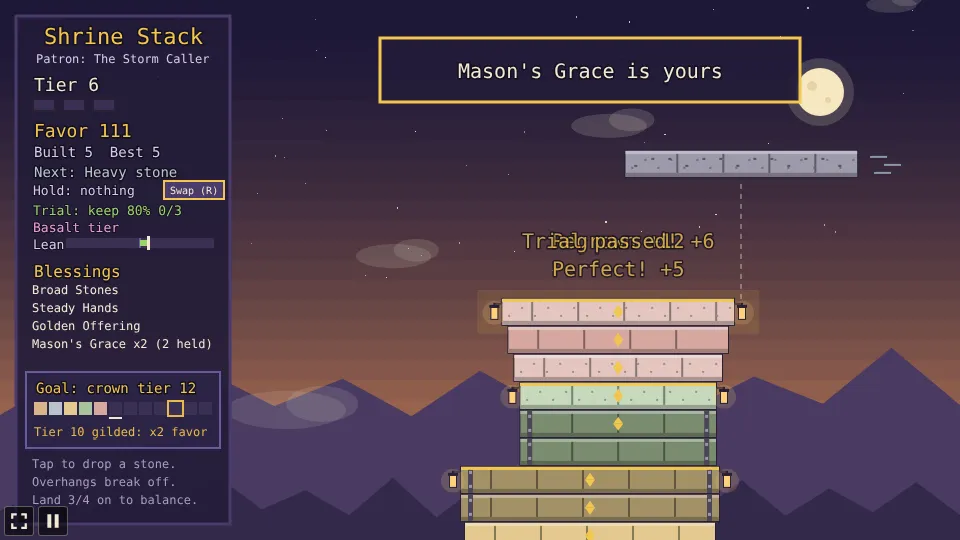
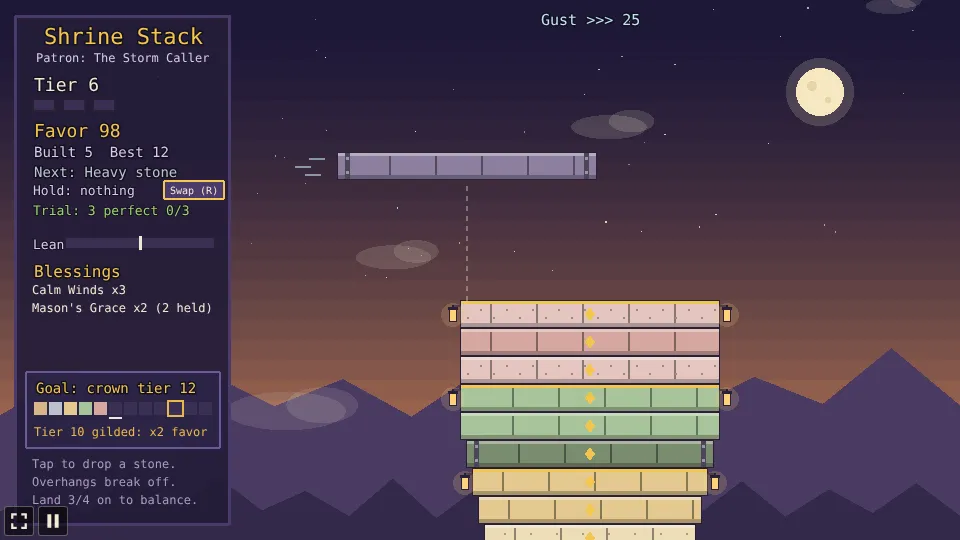
Shrine Stack: fix the topple favor farm and three small bugs
- A toppled tier takes back the favor its stones earned.
- A balanced 12th tier keeps its blessing offer for the Keep building break.
- The gust readout shows under the Storm Caller too, not only in the endless sky.
- A reroll unticks the curse box, since the new curse is a different one.

Created with Opus 5.5 (medium)

diff --git a/games/shrine-stack/src/game/state.ts b/games/shrine-stack/src/game/state.ts
@@ -178,7 +178,7 @@ export type GameEvent =
   | { type: 'trial'; tier: number; passed: boolean; favor: number }
   | { type: 'rerolled' }
   | { type: 'bought'; item: ShopId }
-  | { type: 'toppled'; count: number; lean: number }
+  | { type: 'toppled'; count: number; lean: number; favor: number }
   | { type: 'regrown'; px: number }
   | { type: 'swapped'; kind: StoneKind }
   | { type: 'patron'; patron: PatronId };
@@ -195,6 +195,8 @@ export interface GameState {
   tiersBuilt: number;
   balancedTiers: number;
   favor: number;
+  /** The favor the stones of the tier being built have earned so far, taken back if it topples. */
+  tierFavor: number;
   /** Blessings kept, in the order chosen, and the ones on offer while choosing. */
   blessings: BlessingId[];
   offer: BlessingId[];
@@ -257,6 +259,7 @@ export function newGame(best = 0): GameState {
     tiersBuilt: 0,
     balancedTiers: 0,
     favor: 0,
+    tierFavor: 0,
     blessings: [],
     offer: [],
     speed: speedFor(1, 0),
@@ -335,11 +338,13 @@ function spawn(s: GameState) {
   s.wind = gustFor(s);
 }
 
-/** The gust on a new stone: in the endless sky, or from `STORM_FROM_TIER` under the Storm Caller. */
+/** Whether gusts can blow on the tier being built: in the endless sky, or from `STORM_FROM_TIER` under the Storm Caller. */
+export const gusty = (s: GameState) => s.endless || (s.patron === 'storm' && s.tier >= STORM_FROM_TIER);
+
+/** The gust on a new stone, when the tier is `gusty`. */
 function gustFor(s: GameState) {
-  if (s.endless) return gust(s.tier, GOAL_TIER);
-  if (s.patron === 'storm' && s.tier >= STORM_FROM_TIER) return gust(s.tier, STORM_FROM_TIER - 1);
-  return 0;
+  if (!gusty(s)) return 0;
+  return s.endless ? gust(s.tier, GOAL_TIER) : gust(s.tier, STORM_FROM_TIER - 1);
 }
 
 /** The kind of the stone that will be the temple's `n`th from the bottom (from 0): ordinary on the first tiers. */
@@ -477,6 +482,7 @@ function land(s: GameState) {
   s.stones.push({ x, w: kept, tier: s.tier, perfect, kind: m.kind, material: m.material });
   const favor = stoneFavor(s, perfect, m.kind);
   s.favor += favor;
+  s.tierFavor += favor;
   if (share < BALANCE) s.wobbly = true;
   s.inTier++;
   s.chain = perfect ? s.chain + 1 : 0;
@@ -522,6 +528,7 @@ function land(s: GameState) {
     s.best = Math.max(s.best, s.tiersBuilt);
     s.tier++;
     s.inTier = 0;
+    s.tierFavor = 0;
     s.wobbly = false;
     s.curse = null;
     s.swapped = false;
@@ -530,13 +537,16 @@ function land(s: GameState) {
     s.lean = Math.trunc(s.lean * LEAN_SETTLE);
     s.speed = speedFor(s.tier, s.blessings.filter((b) => b === 'calm').length, s.patron);
     s.trial = s.tier >= TRIALS_FROM_TIER ? { id: TRIALS[Math.floor(Math.random() * TRIALS.length)], done: 0, failed: false } : null;
+    if (balanced) {
+      s.offer = pickOffer(s);
+      s.curseOffer = pickCurse();
+    }
     if (s.tiersBuilt === GOAL_TIER && !s.endless) {
+      // A balanced crowning tier keeps its offer for the break "Keep building" opens.
       s.phase = 'crowned';
       return;
     }
     if (balanced) {
-      s.offer = pickOffer(s);
-      s.curseOffer = pickCurse();
       s.phase = 'blessing';
     } else if (s.favor >= CHEAPEST || s.tier >= MATERIAL_FROM_TIER) {
       // A wobbly tier earns no blessing, but the break still opens when favor can buy something or
@@ -549,12 +559,15 @@ function land(s: GameState) {
   spawn(s);
 }
 
-/** The tier being built falls off the temple: its stones go, the lean is gone with them and the tier starts over. */
+/** The tier being built falls off the temple: its stones go, and their favor, the lean is gone with them and the tier starts over. */
 function topple(s: GameState) {
   const count = s.inTier;
   s.stones.splice(s.stones.length - count, count);
-  s.events.push({ type: 'toppled', count, lean: s.lean });
+  const favor = Math.min(s.tierFavor, s.favor);
+  s.favor -= favor;
+  s.events.push({ type: 'toppled', count, lean: s.lean, favor });
   s.inTier = 0;
+  s.tierFavor = 0;
   s.wobbly = false;
   s.lean = 0;
   s.chain = 0;
@@ -598,6 +611,8 @@ export function reroll(s: GameState) {
   s.favor -= REROLL_COST;
   s.offer = pickOffer(s);
   s.curseOffer = pickCurse();
+  // The new curse is a different one, so it starts untaken.
+  s.cursed = false;
   s.events.push({ type: 'rerolled' });
   return true;
 }
@@ -654,12 +669,13 @@ function endBreak(s: GameState) {
   s.phase = 'swinging';
 }
 
-/** After the crown: keep building into the endless sky, where gusts push the falling stone, after a break to pick the first sky tier's material. */
+/**
+ * After the crown: keep building into the endless sky, where gusts push the falling stone, after a break
+ * to pick the first sky tier's material and, when the crowning tier was balanced, its blessing.
+ */
 export function keepBuilding(s: GameState) {
   if (s.phase !== 'crowned') return false;
   s.endless = true;
-  s.offer = [];
-  s.curseOffer = null;
   s.phase = 'blessing';
   spawn(s);
   return true;

diff --git a/games/shrine-stack/src/scenes/GameScene.ts b/games/shrine-stack/src/scenes/GameScene.ts
@@ -28,6 +28,7 @@ import {
   CURSE_MULT,
   curseNow,
   drop,
+  gusty,
   keepBuilding,
   GILDED_MULT,
   GILDED_TIER,
@@ -564,7 +565,8 @@ export class GameScene extends Phaser.Scene {
       const side = e.lean > 0 ? 1 : -1;
       for (const g of this.stoneViews.splice(this.stoneViews.length - e.count, e.count)) this.tumble(g, side);
       this.cameras.main.shake(250, 0.008);
-      this.announce(['The tier topples!', `The temple leaned ${Math.abs(Math.round(e.lean))} too far ${side > 0 ? 'right' : 'left'}`]);
+      const dir = side > 0 ? 'right' : 'left';
+      this.announce(['The tier topples!', e.favor ? `Leaned too far ${dir}: -${e.favor} favor` : `The temple leaned ${Math.abs(Math.round(e.lean))} too far ${dir}`]);
     } else if (e.type === 'regrown') {
       this.redrawTop();
       this.popup(s.stones.at(-1)!.x, this.worldY(stackHeight(s)) - 34, `Regrown +${e.px}`, true);
@@ -732,7 +734,7 @@ export class GameScene extends Phaser.Scene {
     this.reserveButton = swappable ? { ...RESERVE_BUTTON } : null;
     this.drawLean();
     const playing = s.phase === 'swinging' || s.phase === 'falling';
-    this.windText.setText(s.endless && playing ? (s.wind ? `Gust ${s.wind > 0 ? '>>>' : '<<<'} ${Math.abs(s.wind)}` : 'Calm air') : '');
+    this.windText.setText(gusty(s) && playing ? (s.wind ? `Gust ${s.wind > 0 ? '>>>' : '<<<'} ${Math.abs(s.wind)}` : 'Calm air') : '');
     const counts = BLESSINGS.filter((b) => s.blessings.includes(b)).map((b) => {
       const n = s.blessings.filter((x) => x === b).length;
       const held = b === 'grace' && s.grace ? ` (${s.grace} held)` : '';

diff --git a/games/shrine-stack/src/howToPlay.ts b/games/shrine-stack/src/howToPlay.ts
@@ -37,7 +37,7 @@ export const howToPlay: HowToPlay = {
     'A drop within 5 pixels of the stone below is perfect: it keeps its full width and earns 2 extra favor.',
     'A tier is balanced when every stone in it kept at least three quarters of its width.',
     'Heavy stones swing slower but crack more off; light stones swing faster and earn 1 more favor.',
-    'From tier 3 off-centre drops make the temple lean, and past 60 pixels the tier topples and starts over.',
+    'From tier 3 off-centre drops make the temple lean, and past 60 pixels the tier topples, losing its favor, and starts over.',
     'From tier 3, three perfect drops in a row start growing the stone back.',
     'Ticking a curse before you choose a blessing doubles everything the next tier earns.',
     'Tier 10 is gilded for double favor, and after the crown you can keep building into a windy sky.',

diff --git a/games/shrine-stack/AGENTS.md b/games/shrine-stack/AGENTS.md
@@ -40,7 +40,8 @@ Implemented today:
   Many-Handed, never Mason's Grace under the Gilded Hand), repeatable.
 - Swing speed rises 5% per tier (`TIER_SPEEDUP`); `swingSpeed` adds the stone's kind, Basalt, a slow
   drop and Haste on top of `speed`, which stays the tier's speed (with the patron's pace in it).
-- Reroll: `reroll` spends `REROLL_COST` (5) favor for a new offer (and a new curse) while choosing.
+- Reroll: `reroll` spends `REROLL_COST` (5) favor for a new offer (and a new curse, untaken:
+  `cursed` resets) while choosing.
 - Favor shop (SS1): `buy` spends favor during a break on `SHOP` items (`src/game/catalog.ts`),
   each once per break (`bought`): `slow` (the stone in hand swings at `SLOW_MULT`, cleared when it
   lands), `wider` (top stone grows `WIDER_PX`, up to `PLINTH_W`) and `grace` (+1 grace). `shopFor`
@@ -57,8 +58,9 @@ Implemented today:
   `WIND_PER_TIER` per tier past 13, up to `WIND_MAX`) that pushes it sideways while it falls.
 - The temple leans (SS6): from `LEAN_FROM_TIER` (3) `land` adds each placed stone's offset from the
   one below to `lean` (+ right; a perfect drop adds 0). Past `LEAN_MAX` (60) `topple` removes the
-  tier's stones placed so far (`inTier` of them), pushes a `toppled` event, resets `inTier`,
-  `wobbly`, `lean`, `chain` and the trial's progress, and the tier starts over (favor stays). A
+  tier's stones placed so far (`inTier` of them), takes back the favor they earned (`tierFavor`,
+  which a tier end resets), pushes a `toppled` event (with that favor), resets `inTier`, `wobbly`,
+  `lean`, `chain` and the trial's progress, and the tier starts over. A
   finished tier keeps `LEAN_SETTLE` (half) of its lean, truncated.
 - Perfect chains (SS7): `chain` counts perfect drops in a row (a cut or a miss resets it; it carries
   across tiers). From `CHAIN_FROM_TIER` (3) the `CHAIN_LEN`th (3rd) perfect drop and each one after
@@ -80,7 +82,7 @@ Implemented today:
   and `shopFor`; the Many-Handed (`hands`) offers `HANDS_OFFER` (4) blessings (`offerSize`) and
   swings at `HANDS_SPEED`; the Patient Mason (`patient`) swings at `PATIENT_SPEED` and earns no
   `PERFECT_FAVOR`; the Storm Caller (`storm`) adds `STORM_PERFECT` to `perfectPx` and gets gusts
-  from `STORM_FROM_TIER` (`gustFor`). `speedFor` takes the patron (`patronSpeed`).
+  from `STORM_FROM_TIER` (`gusty`, `gustFor`); the gust readout shows whenever `gusty` is true. `speedFor` takes the patron (`patronSpeed`).
 - Curses (SS5): a balanced tier's break offers `curseOffer` (`haste`, `brittle`, `dim`);
   `toggleCurse` sets `cursed`, and `chooseBlessing` then puts `curse` on the tier being started.
   `curseNow` says if it is in force; `favorMult` doubles (`CURSE_MULT`) every favor of that tier.
@@ -88,7 +90,9 @@ Implemented today:
   Dimness hides the drop guide (scene only).
 - Gilded tier: stones placed on tier `GILDED_TIER` (10), and its balance bonus, earn
   `GILDED_MULT` (2) times the favor (`gild`, `stoneFavor`).
-- Goal: finishing tier `GOAL_TIER` (12) sets phase `crowned`, the win; no blessing is offered then.
+- Goal: finishing tier `GOAL_TIER` (12) sets phase `crowned`, the win. A balanced crowning tier
+  still rolls its `offer` and `curseOffer`, and `keepBuilding` opens the break with them (the
+  material row and shop too); a wobbly one opens it with an empty offer.
   In the endless sky the run ends only on a miss; `best` keeps counting tiers.
 - The game ends on a miss (a stone keeping less than `MIN_W`) unless Mason's Grace catches it.
 
@@ -101,7 +105,7 @@ Missing or rough:
 - `docs/screenshots/game-over.webp`, `gilded.webp`, `crowned.webp`, `wobbly-break.webp`,
   `shop-bought.webp`, `curse-taken.webp`, `stone-kinds.webp`, `endless-gust.webp`, `four-blessings.webp`,
   `material-pick.webp`, `reserve.webp`, `lean-meter.webp`, `toppled.webp`, `regrown.webp`,
-  `storm-gust.webp` and `cover.png` (a copy of `gilded.webp`) are not produced by the test; refresh
+  `storm-gust.webp`, `crowned-blessing.webp` and `cover.png` (a copy of `gilded.webp`) are not produced by the test; refresh
   them by hand (play several tiers in the dev build, or drive it with a Playwright script that taps
   like the test does) if the look changes.
 
@@ -130,7 +134,7 @@ File map (`src/`):
   `stackHeight`, `topOf`, `curseNow`, `swingSpeed`, `perfectWindow`, `canSwap`, `swapReserve`,
   `tick`, `drop`, `canPickMaterial`, `chooseMaterial`, `chooseBlessing`, `canReroll`, `reroll`,
   `canBuy`, `buy`, `toggleCurse`, `buildOn`, `keepBuilding`, `gild`, `materialMult`, `favorMult`,
-  `stoneFavor`; `pickPatrons`, `spawn`, `gustFor`, `kindFor`, `gust`, `land`, `topple`,
+  `stoneFavor`, `gusty`; `pickPatrons`, `spawn`, `gustFor`, `kindFor`, `gust`, `land`, `topple`,
   `pickOffer`, `pickCurse`, `widenTop` and `endBreak` are private). No Phaser; `speedFor` reads
   `byDifficulty` from `shared/settings.ts`.
 - `game/blessings.ts`: `BLESSINGS`, `BlessingId` and `BLESSING_INFO` (name, card text, colour).
@@ -168,14 +172,14 @@ How it runs:
   regrows the stone, adds the lean and topples the tier if it is too far (then spawns and returns),
   updates the trial, and on the third stone of a tier finishes it: a met trial adds `TRIAL_FAVOR`
   and a balanced tier `TIER_FAVOR` (both times `favorMult`, rounded up), `tier` goes up, the curse
-  ends, the swap and material reset, the lean settles and the next trial is rolled. The goal
-  tier then moves to `crowned` and stops (unless `endless`); otherwise a balanced tier moves to
-  the `blessing` phase with `offer` and `curseOffer` set, and a wobbly one does too, with an empty
+  ends, the swap, material and `tierFavor` reset, the lean settles and the next trial is rolled. A
+  balanced tier rolls `offer` and `curseOffer`. The goal tier then moves to `crowned` and stops
+  (unless `endless`); otherwise a balanced tier moves to the `blessing` phase, and a wobbly one does too, with an empty
   offer, when favor reaches `CHEAPEST` or from `MATERIAL_FROM_TIER`. Then it spawns the next stone
   from the side opposite the last.
 - Events: the rules push `GameEvent`s (`placed` with the favor it earned, `missed`, `tier`,
   `trial` (failed mid-tier, or passed with its favor), `rerolled`, `bought`, `toppled` (how many
-  stones, and the lean), `regrown`, `swapped` (the kind now in hand), `patron`) onto
+  stones, the lean and the favor lost), `regrown`, `swapped` (the kind now in hand), `patron`) onto
   `state.events`; the scene drains them each frame in `show`, which draws the new
   stone, debris, popups, glow, lanterns, the crown and banners, and on `toppled` sends the last
   stone views tumbling (`tumble`). Nothing else in the scene changes state.
@@ -208,7 +212,7 @@ How it runs:
 
 State model (`GameState`): `phase` (`patron`, `swinging`, `falling`, `blessing`, `over`,
 `crowned`), `stones` (bottom first), `moving`, `tier` and `inTier`, `wobbly`, `tiersBuilt`,
-`balancedTiers`, `favor`, `blessings` (in the order chosen) and `offer`, the blessing-driven
+`balancedTiers`, `favor`, `tierFavor`, `blessings` (in the order chosen) and `offer`, the blessing-driven
 `speed`, `perfectPx`, `favorPerStone` and `grace`, `dropped` (misses included), `lastDrop`, `best`,
 `nextKind`, `slow`, `bought`, `trial`, `curseOffer`, `cursed`, `curse` (`{ id, tier }`), `endless`,
 `wind`, `lean`, `chain`, `material`, `reserve` and `swapped`, `patronOffer` and `patron`, and

diff --git a/games/shrine-stack/README.md b/games/shrine-stack/README.md
@@ -45,7 +45,7 @@ sky.
    three quarters of its width; it earns 5 favor and offers three blessings to choose from. A
    wobbly tier earns nothing extra. Each tier swings 5% faster than the one before.
 5. **Reroll**: while choosing, spend 5 favor to draw new blessings (and a new curse), as often as
-   favor lasts.
+   favor lasts. A new curse comes untaken.
 6. **Spend favor** between tiers on one-time help, each at most once per break: a **Slow drop** (4
    favor: the next stone swings at half speed), a **Wider stone** (6: the top stone grows 20 wider,
    up to the plinth) or **Mason's Grace** (8: the next miss is caught). The shop also opens after a
@@ -62,7 +62,7 @@ sky.
    keeping at least 80% of its width. Meet it for 6 extra favor; the panel tracks it.
 10. **The temple leans**: from tier 3, every stone that lands off the centre of the one below adds
     its offset to the lean meter in the panel (left or right). Past 60 pixels the tier being built
-    topples: its stones tumble off (favor already earned stays) and the tier starts over. A finished
+    topples: its stones tumble off, taking the favor they earned with them, and the tier starts over. A finished
     tier settles, halving the lean. Perfect drops add nothing, and a drop to the other side leans it
     back, so the widest drop is not always the right one.
 11. **Perfect chains**: from tier 3, the third perfect drop in a row, and every perfect drop after it,
@@ -79,7 +79,7 @@ sky.
     stones are leaf gold, and every stone and its balance bonus earn double favor. Finishing tier 12
     crowns the shrine and wins the run.
 15. **The endless sky**: after the crown, **Keep building** lifts the crown off, a break picks the
-    first sky tier's stone, and the temple climbs on. Gusts now push the falling stone sideways (the
+    first sky tier's stone (and a blessing, if tier 12 was balanced), and the temple climbs on. Gusts now push the falling stone sideways (the
     top of the screen and the streaks by the stone show which way and how hard), stronger the higher
     you go. Aim upwind.
 16. **The end** comes when a stone misses the temple. The most tiers built in one temple are saved
@@ -137,7 +137,7 @@ Blessings can be taken more than once, and they add up.
 
 ![The lean meter filling on a marble tier](docs/screenshots/lean-meter.webp)
 
-![The tier topples](docs/screenshots/toppled.webp)
+![The tier topples and takes its favor](docs/screenshots/toppled.webp)
 
 ![A chain of perfect drops grows the stone back](docs/screenshots/regrown.webp)
 
@@ -148,6 +148,8 @@ Blessings can be taken more than once, and they add up.
 ![The gilded tenth tier going up](docs/screenshots/gilded.webp)
 
 ![The shrine crowned at tier 12](docs/screenshots/crowned.webp)
+
+![After a balanced crown, Keep building offers tier 12's blessing](docs/screenshots/crowned-blessing.webp)
 
 ![The temple has fallen](docs/screenshots/game-over.webp)
 
